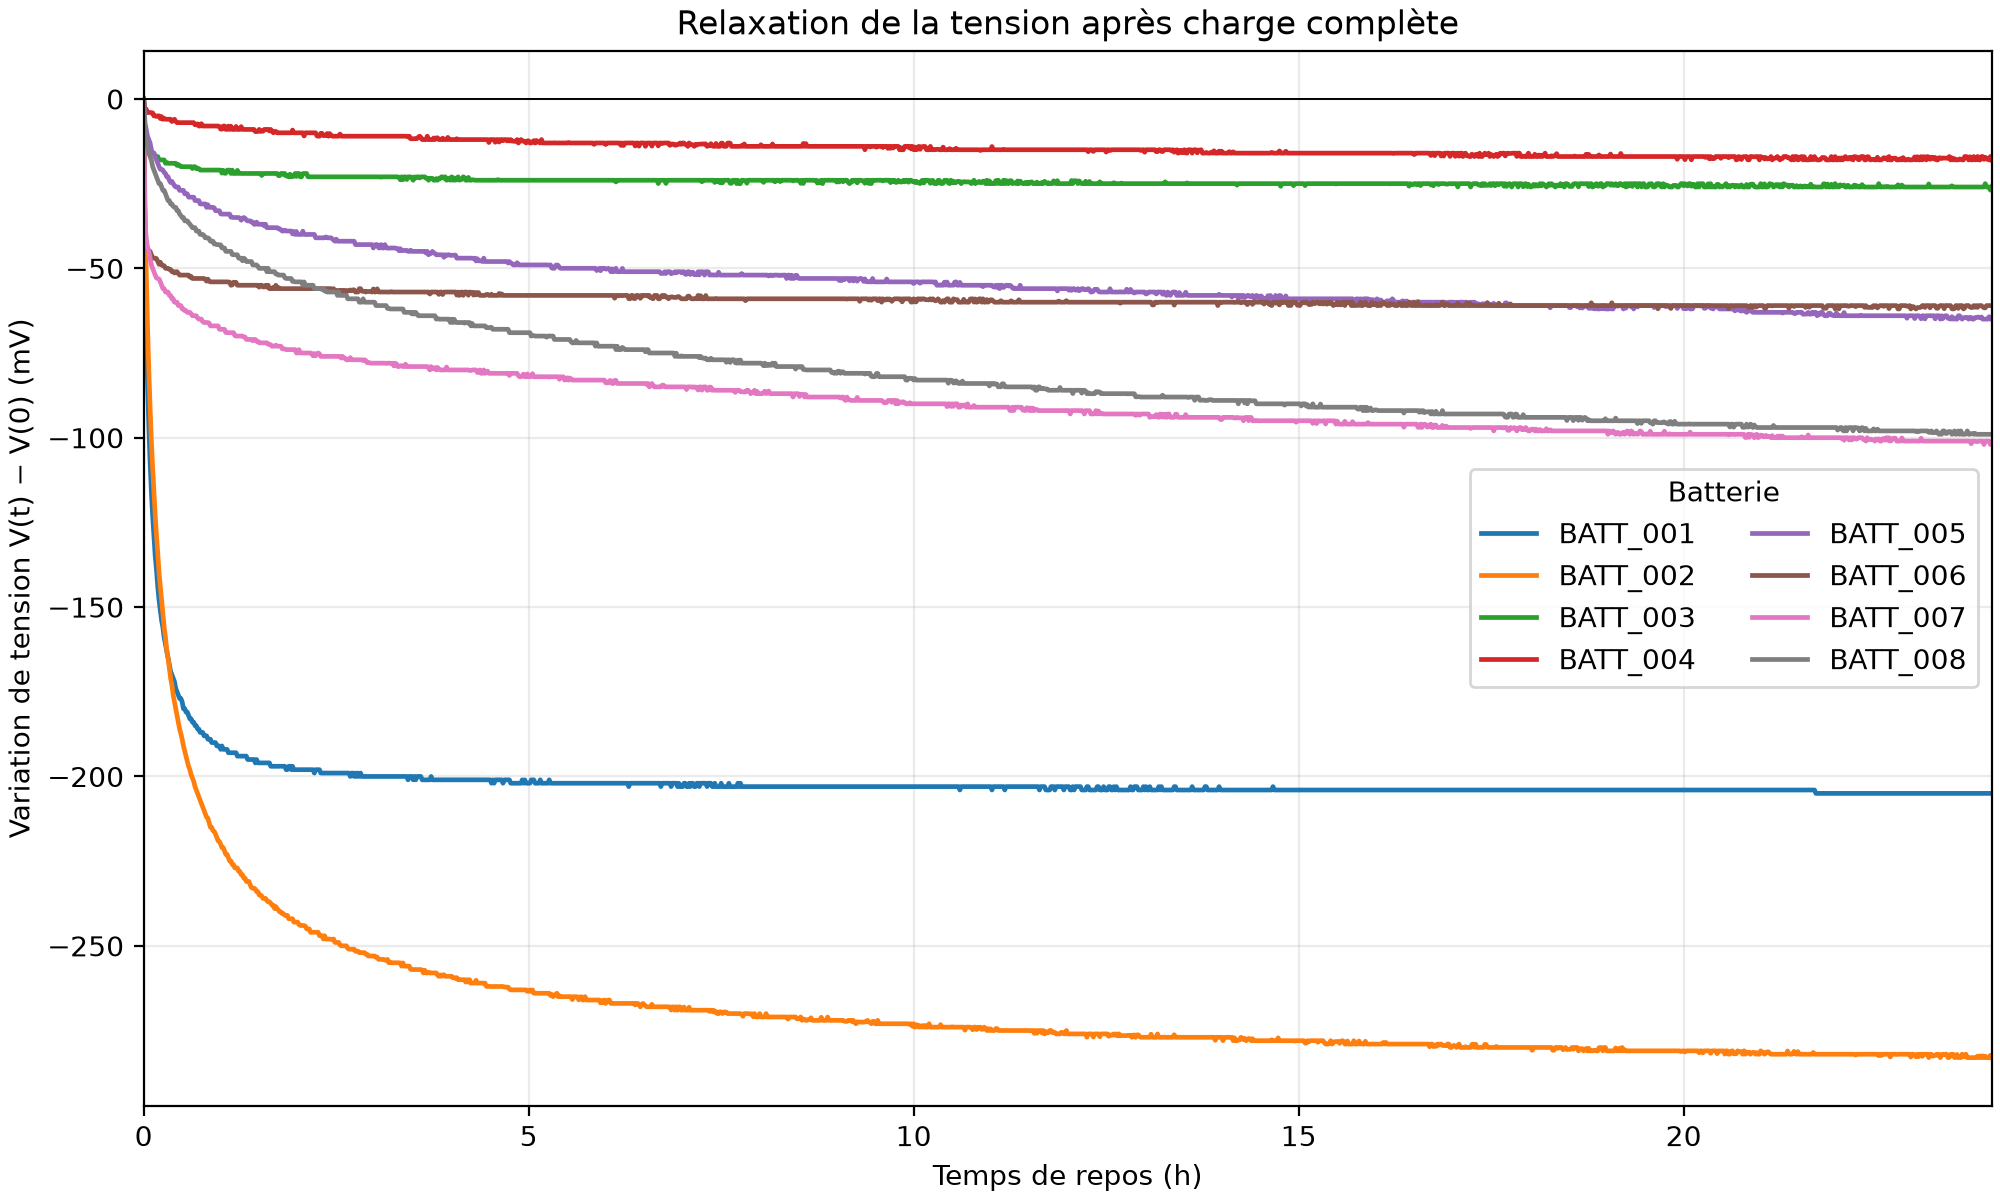
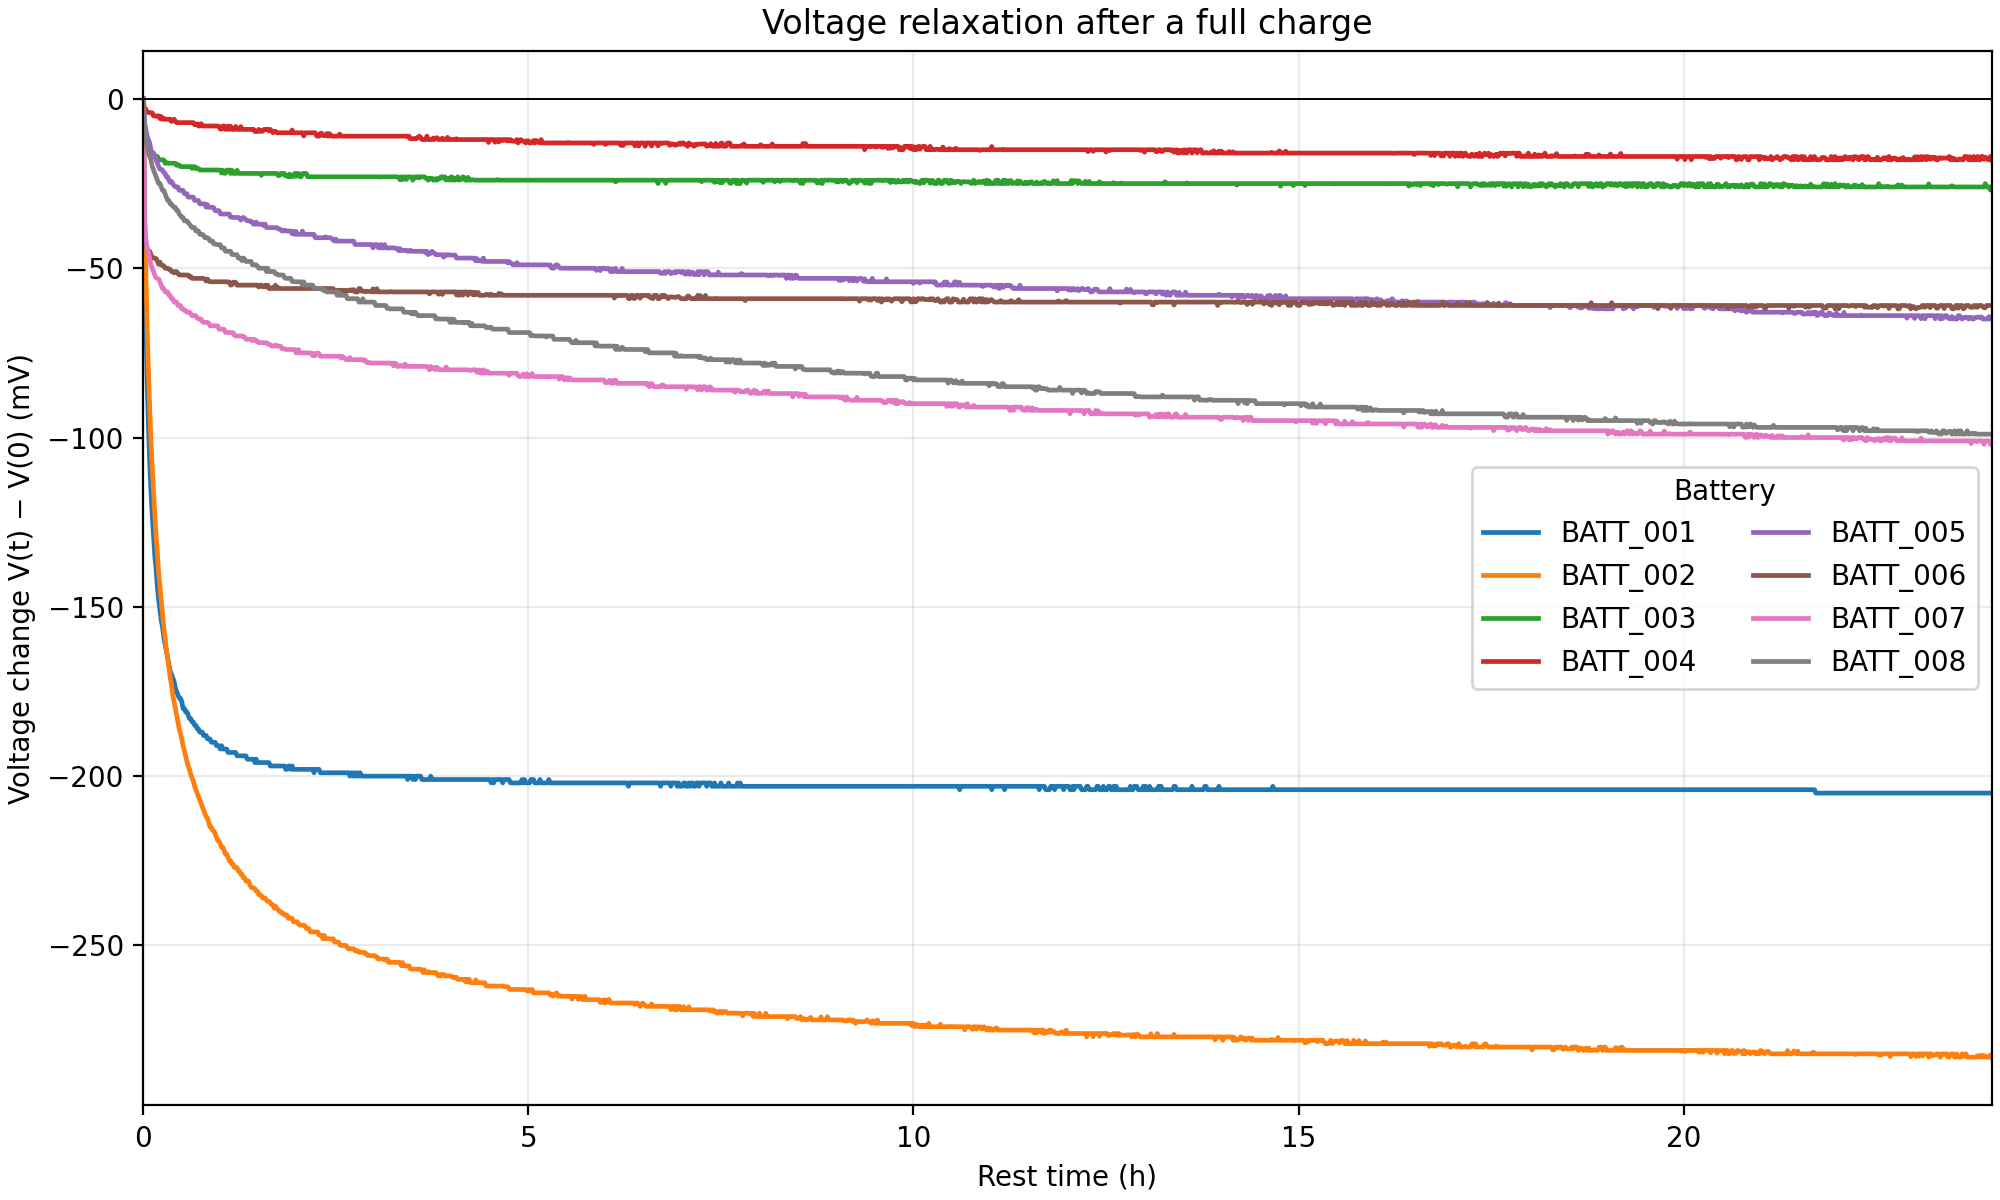
Translate figure titles and labels into English

diff --git a/scripts/analyze.py b/scripts/analyze.py
@@ -71,11 +71,11 @@ def main():
     for i, table in enumerate(curves):
         ax.plot(table["time_h"], table["delta_voltage_mV"],
                 label=table["battery"].iloc[0], color=colors[i % len(colors)], lw=1.7)
-    ax.set(xlabel="Temps de repos (h)", ylabel="Variation de tension V(t) − V(0) (mV)",
-           title="Relaxation de la tension après charge complète", xlim=(0, 24))
+    ax.set(xlabel="Rest time (h)", ylabel="Voltage change V(t) − V(0) (mV)",
+           title="Voltage relaxation after a full charge", xlim=(0, 24))
     ax.axhline(0, color="black", lw=0.7)
     ax.grid(alpha=0.25)
-    ax.legend(title="Batterie", ncol=2)
+    ax.legend(title="Battery", ncol=2)
     fig.savefig(FIGURES / "ocv_relaxation_curves.png", dpi=200)
     plt.close(fig)
 
@@ -83,8 +83,8 @@ def main():
     bars = ax.bar(summary["battery"], summary["delta_V_0_24h_mV"],
                   color=[colors[i % len(colors)] for i in range(len(summary))])
     ax.bar_label(bars, fmt="%.1f", padding=4, fontsize=9)
-    ax.set(xlabel="Batterie", ylabel="Variation de tension V(24 h) − V(0) (mV)",
-           title="Variation totale après 24 heures de repos — après charge complète")
+    ax.set(xlabel="Battery", ylabel="Voltage change V(24 h) − V(0) (mV)",
+           title="Voltage change after 24 hours of rest following a full charge")
     ax.axhline(0, color="black", lw=0.7)
     ax.grid(axis="y", alpha=0.25)
     ax.set_axisbelow(True)
